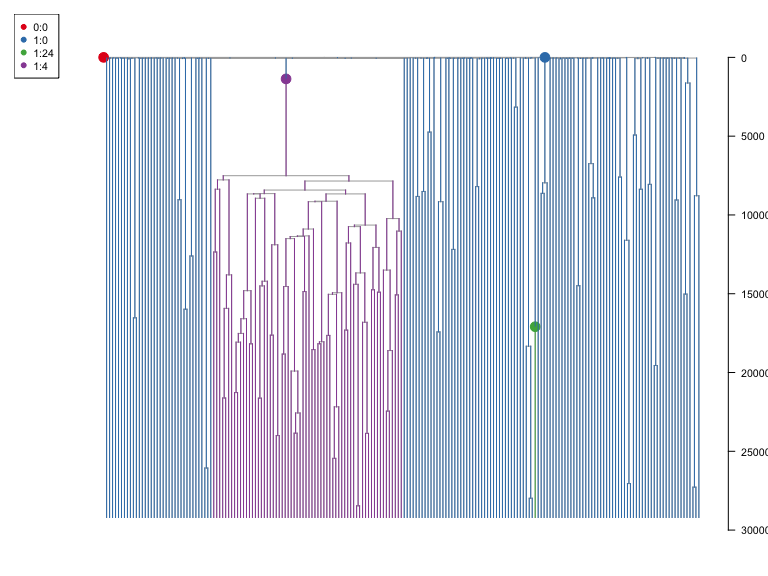
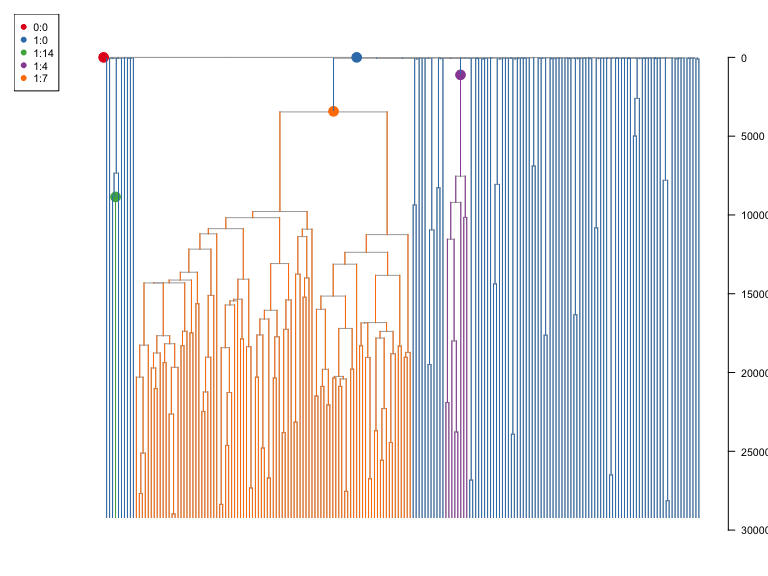
Fix problem of truncated simulation history for drivers introduced very early in life in run_selection_sim

diff --git a/README.md b/README.md
@@ -1,27 +1,34 @@
-11/01/2022
+01/02/2023
 
 <!-- README.md is generated from README.Rmd. Please edit that file -->
+
 # rsimpop
 
 <!-- badges: start -->
 <!-- badges: end -->
+
 ## Installation
 
 You can install rsimpop like so:
 
 ``` r
-devtools::install_github("nangalialab/rsimpop")
+devtools::install_github("NickWilliamsSanger/rsimpop")
 ```
 
-Or clone the repository and install using the downloaded package tar file
+Or clone the repository and install using the downloaded package tar
+file
 
 ``` r
-install.packages("somedirectory/rsimpop/rsimpop_2.2.4.tar.gz",repos=NULL)
+install.packages("somedirectory/rsimpop/rsimpop_2.2.0.tar.gz",repos=NULL)
 ```
 
 ## rsimpop
 
-This package implements Gillespie Algorithm implementation of the Birth-Death model that allows the simultaneous simulation of multiple cellular compartments each with their own time varying-target population size and sub-compartments with differential fitness (driver compartments).
+This package implements Gillespie Algorithm implementation of the
+Birth-Death model that allows the simultaneous simulation of multiple
+cellular compartments each with their own time varying-target population
+size and sub-compartments with differential fitness (driver
+compartments).
 
 ## Simulate from Zygote for 1 year and subsample tree
 
@@ -89,7 +96,12 @@ title("Sampled Early Development Tree: Division Tree")
 
 <img src="man/figures/README-zygote-2.png" width="100%" />
 
-Notice how the sampled tree has 101 tips rather than the specified 100. This is because the simulator always maintains an inactive outgroup (here s1). A group is rendered inactive by specifying a negative "rate" in the cfg$compartment dataframe. The tree branch lengths are now given in terms of the number of self renewal divisions. This allows the user to flexibly apply their own mutation acquisition model:
+Notice how the sampled tree has 101 tips rather than the specified 100.
+This is because the simulator always maintains an inactive outgroup
+(here s1). A group is rendered inactive by specifying a negative “rate”
+in the cfg$compartment dataframe. The tree branch lengths are now given
+in terms of the number of self renewal divisions. This allows the user
+to flexibly apply their own mutation acquisition model:
 
 ``` r
 get_elapsed_time_tree
@@ -120,7 +132,7 @@ get_elapsed_time_tree
 #>     }
 #>     tree
 #> }
-#> <bytecode: 0x7f982147c958>
+#> <bytecode: 0x1212bbeb0>
 #> <environment: namespace:rsimpop>
 sampledtree1m=get_elapsed_time_tree(sampledtree1,mutrateperdivision=1,backgroundrate=15/365)
 ```
@@ -130,7 +142,11 @@ t1=plot_tree(sampledtree1m,cex.label = 0.5);title("Sampled Early Development Tre
 node_labels(t1,cex=0.8)
 ```
 
-<img src="man/figures/README-events-1.png" width="100%" /> The blue numbers are represent the ID of the child node associated with each branch. This "node" ID together with a timestamp is used to locate events on the tree - see, the *events* data.frame , that is maintained and updated by the simulator:
+<img src="man/figures/README-events-1.png" width="100%" /> The blue
+numbers are represent the ID of the child node associated with each
+branch. This “node” ID together with a timestamp is used to locate
+events on the tree - see, the *events* data.frame , that is maintained
+and updated by the simulator:
 
 ``` r
 print(sampledtree1m$events)
@@ -139,7 +155,8 @@ print(sampledtree1m$events)
 #> 2     1        0  103  0   1
 ```
 
-Notice how here the events dataframe specifies the compartment for the outgroup and the rest of the tree.
+Notice how here the events dataframe specifies the compartment for the
+outgroup and the rest of the tree.
 
 We can introduce another cell compartment as follows:
 
@@ -164,7 +181,8 @@ print(sampledtree1a$events)
 #> 12     2        0   96 135.4454  11
 ```
 
-The occurence of such events for such sub-sampled trees can be visualised using the built in function *plot\_tree\_events*
+The occurence of such events for such sub-sampled trees can be
+visualised using the built in function *plot_tree_events*
 
 ``` r
 plot_tree_events(sampledtree1a)
@@ -180,7 +198,9 @@ plot_tree_events(sampledtree1a)
     #> 
     #> Rooted; includes branch lengths.
 
-Recall that the config has already been updated with the target population sizes and division rates. The next phase can therefore be simulated:
+Recall that the config has already been updated with the target
+population sizes and division rates. The next phase can therefore be
+simulated:
 
 ``` r
 sp2=sim_pop(sampledtree1a,params=list(n_sim_days=365*10),cfg=sampledtree1a$cfg)
@@ -233,7 +253,7 @@ run_neutral_sim
 #>     adult1 = sim_pop(growthphase, params = params, cfg)
 #>     return(adult1)
 #> }
-#> <bytecode: 0x7f981eba8e58>
+#> <bytecode: 0x12497e7e8>
 #> <environment: namespace:rsimpop>
 testing=run_neutral_sim(0.1,0.5/365,target_pop_size = 1e3,nyears=10)
 #> n_sim_days: 3650
@@ -279,7 +299,8 @@ plot_tree_events(st,cex.label = 0);title("Phylogeny of 100 cells sampled from sm
 
 ## Selection based simulation
 
-Here we are interested in the simple situation of one cellular compartment with multiple sub-compartments.
+Here we are interested in the simple situation of one cellular
+compartment with multiple sub-compartments.
 
 ``` r
 #run_selection_sim
@@ -466,7 +487,6 @@ selsim=run_selection_sim(0.05,1/(2*190),target_pop_size = 5e4,nyears = 50,fitnes
 #> driver_rate_per_cell_per_day: 0
 #> MAX_EVENTS= 36500 
 #> MAX_SIZE= 150003
-#> Warning in combine_simpops(adult1, adult2): Deprecated use of combine_simpops
 print(selsim$cfg$info)
 #>   population val fitness id driver1
 #> 1          1   0     0.0  0       0
@@ -474,7 +494,8 @@ print(selsim$cfg$info)
 #> 3      37727   1     0.3  1       0
 ```
 
-Plot example sampled trees using various brach length models (or scaling):
+Plot example sampled trees using various brach length models (or
+scaling):
 
 ``` r
 seltree100=get_subsampled_tree(selsim,100)
@@ -724,8 +745,7 @@ tselsim=run_transient_selection(0.05,1/(2*190),target_pop_size = 5e4,nyears_driv
 #> maxt: 5475.01064372538
 #> driver_rate_per_cell_per_day: 0
 #> MAX_EVENTS= 21900 
-#> MAX_SIZE= 150054
-#> Warning in combine_simpops(adult1, adult2): Deprecated use of combine_simpops
+#> MAX_SIZE= 150054 
 #> n_sim_days: 18250
 #> b_stop_if_empty: 1
 #> b_stop_at_pop_size: 0
@@ -753,7 +773,11 @@ plot_tree_events(get_elapsed_time_tree(tseltree200),cex.label=0)
 
 ## Neutral simulation with a trajectory
 
-Create a trajectory dataframe with 3 columns (ts,target\_pop\_size,division\_rate) and simulate using the run\_neutral\_trajectory wrapper function. Note that timestamps and rates are expressed in units of days and expected divisions per day respectively.
+Create a trajectory dataframe with 3 columns
+(ts,target_pop_size,division_rate) and simulate using the
+run_neutral_trajectory wrapper function. Note that timestamps and rates
+are expressed in units of days and expected divisions per day
+respectively.
 
 ``` r
 trajectory=data.frame(ts=365*(1:80),target_pop_size=5e4+100*(1:80),division_rate=1/(2*190))
@@ -796,9 +820,16 @@ plot_tree(get_elapsed_time_tree(st),cex.label = 0)
 
 ## Multiple drivers
 
-Multiple drivers can be generated at a specified rate so the waiting time between events is exponentially distributed.
+Multiple drivers can be generated at a specified rate so the waiting
+time between events is exponentially distributed.
 
-Firstly the user need to create a function that draws a selection coefficient from a distibution. The simulator can comfortably accommodate over 100 drivers per year but nonetheless it is advised that a selection coefficient threshold be specified (say 0.05) and that driver incidence be made correspondingly rarer. Note that at least 200,000 fitness coefficent values need to provided to run\_driver\_process\_sim.
+Firstly the user need to create a function that draws a selection
+coefficient from a distibution. The simulator can comfortably
+accommodate over 100 drivers per year but nonetheless it is advised that
+a selection coefficient threshold be specified (say 0.05) and that
+driver incidence be made correspondingly rarer. Note that at least
+200,000 fitness coefficent values need to provided to
+run_driver_process_sim.
 
 ### Selection coefficient specification
 
@@ -828,23 +859,18 @@ Look at the final per driver counts
 print(dps$cfg$info %>% filter(population>0))
 #>    population val    fitness id driver1
 #> 1           1   0 0.00000000  0       0
-#> 2       77602   1 0.00000000  0       0
-#> 3        8953   1 0.10364429 13       0
-#> 4       11157   1 0.12392172  5       0
-#> 5         408   1 0.14660430 48       0
-#> 6          71   1 0.09981411 39       0
-#> 7        1229   1 0.08240172 23       0
-#> 8          33   1 0.10568952 49       0
-#> 9           6   1 0.09556388 30       0
-#> 10        287   1 0.10279057 40       0
-#> 11        214   1 0.10102528 52       0
-#> 12         27   1 0.10910568 55       0
-#> 13         13   1 0.08134871 58       0
-#> 14          3   1 0.09713799 59       0
-#> 15          3   1 0.22739413 64       0
-#> 16          1   1 0.11165956 68       0
-#> 17          6   1 0.09880682 65       0
-#> 18         18   1 0.10898082 63       0
+#> 2       64474   1 0.00000000  0       0
+#> 3         425   1 0.08373362 12       0
+#> 4       26621   1 0.12172817 17       0
+#> 5         335   1 0.09556388 30       0
+#> 6        6550   1 0.14679795 24       0
+#> 7         689   1 0.09278150 21       0
+#> 8           5   1 0.10562203 74       0
+#> 9          12   1 0.10150523 77       0
+#> 10          4   1 0.10999497 78       0
+#> 11        687   1 0.10279057 40       0
+#> 12        201   1 0.08816095 41       0
+#> 13          1   1 0.09488368 81       0
 ```
 
 Plot an example sampled tree
@@ -888,7 +914,8 @@ Continue simulating the same individual until the age of 90
 dps90=run_driver_process_sim(simpop=dps,initial_division_rate = 0.1,final_division_rate = 1/(2*190),target_pop_size = 1e5,nyears = 90,fitness=fitnessExpFn,drivers_per_cell_per_day = 1/(365*1e5))
 ```
 
-Note that as of version 2.0.0 driver ids are not reused so they are now preserved between runs.
+Note that as of version 2.0.0 driver ids are not reused so they are now
+preserved between runs.
 
 ``` r
 dpst90=get_subsampled_tree(dps90,200)
@@ -910,7 +937,8 @@ plot_tree_events(dpst90,cex.label = 0)
     #> 
     #> Rooted; includes branch lengths.
 
-If desired the colouring can be kept consistent across 2 plots from different times (experimental) using the events.keep argument:
+If desired the colouring can be kept consistent across 2 plots from
+different times (experimental) using the events.keep argument:
 
 ``` r
 par(mfcol=c(2,1))
@@ -936,6 +964,7 @@ dps=run_driver_process_sim(initial_division_rate=0.1,user_trajectory=trajectory,
 #> driver_rate_per_cell_per_day: 2.73972602739726e-08
 #> MAX_EVENTS= 730 
 #> MAX_SIZE= 150303
+
 plot.simpop(dps,xlim=c(0,100))
 lines(trajectory$ts/365,trajectory$target_pop_size,col="red")
 legend("topright",c("Target","Actual"),col=c("red","black"),lwd=1)
